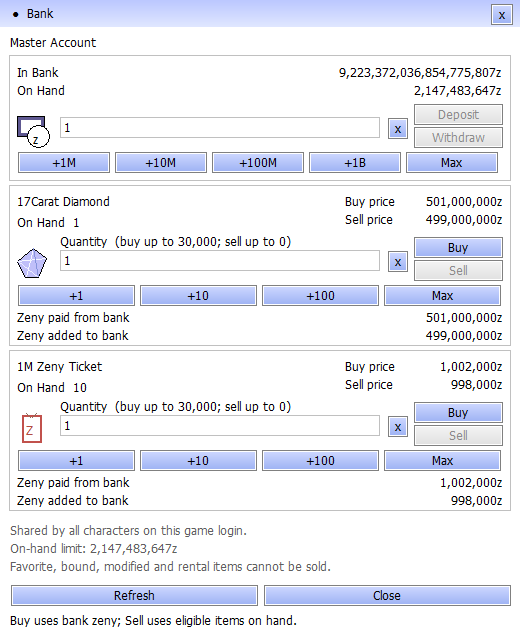
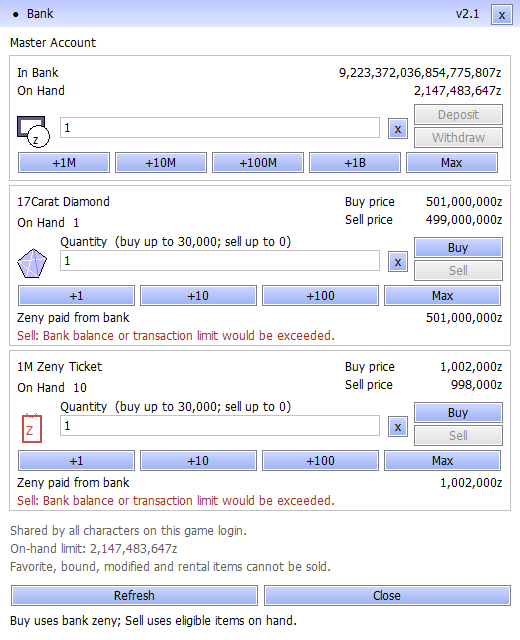
Explain disabled bank actions and verify card-only storage

diff --git a/tools/ci/card_storage_live_client.py b/tools/ci/card_storage_live_client.py
@@ -1,0 +1,85 @@
+"""Card-only inventory/cart deposit matrix against an isolated native game fixture."""
+from pathlib import Path
+import json
+import os
+import re
+import time
+from multi_storage_live_client import Client, GAME, AID, CID, sql, command, items
+
+NONCARDS = (501, 601, 909, 1201, 2301, 1750, 616, 6024, 12781, 9001, 10001, 24000)
+CARDS = (4001, 4002, 300001)
+
+
+def snapshot():
+    return [sql(query) for query in (
+        f'SELECT * FROM inventory WHERE char_id={CID} ORDER BY id',
+        f'SELECT * FROM cart_inventory WHERE char_id={CID} ORDER BY id',
+        f'SELECT * FROM pn_card_storage WHERE account_id={AID} ORDER BY id',
+        f'SELECT zeny FROM `char` WHERE char_id={CID}',
+        f'SELECT * FROM pn_storage_commits WHERE account_id={AID} ORDER BY nonce_hi,nonce_lo,request_id')]
+
+
+def main():
+    inspect = json.loads(command(['docker', 'inspect', GAME]))[0]
+    assert inspect['Config']['Labels'].get('pn.bank.fixture') == 'true'
+    assert os.readlink('/proc/self/ns/net') == os.readlink('/proc/'+str(inspect['State']['Pid'])+'/ns/net')
+    assert sql('SELECT DATABASE()') == 'bank_runtime'
+    rejected = accepted = 0
+    scenarios = []
+    for group in (0, 99):
+        assert sql('SELECT COUNT(*) FROM `char` WHERE online<>0') == '0'
+        sql(f'UPDATE login SET group_id={group} WHERE account_id={AID}')
+        for table in ('inventory', 'cart_inventory'):
+            sql(f'DELETE FROM {table} WHERE char_id={CID}')
+            rows = ','.join(f'({CID},{item},3,1,{4001 if item == 1201 else 0})' for item in NONCARDS+CARDS)
+            sql(f'INSERT INTO {table}(char_id,nameid,amount,identify,card0) VALUES '+rows)
+        sql(f'DELETE FROM pn_card_storage WHERE account_id={AID}')
+        label = 'Card Storage' if group == 0 else 'General Items'
+        if group == 99:
+            sql(f"REPLACE INTO acc_reg_str(account_id,`key`,`index`,value) VALUES ({AID},'#PNStorageName$',116,'{label}')")
+        c = Client()
+        cart_wire = c.chat('@storagefixturecart')
+        assert b'Fixture cart: 1' in cart_wire
+        c.cart.update(items(cart_wire, 1))
+        assert all(item in c.inventory and item in c.cart for item in NONCARDS+CARDS)
+        assert c.open(label) == {}
+        for route, packet, source in (('inventory', 0x364, c.inventory), ('cart', 0x129, c.cart)):
+            before = snapshot()
+            for item in NONCARDS:
+                wire = c.transfer(packet, source[item][0], 1, .25)
+                assert b'Card Storage accepts card items only.' in wire, (group, route, item, wire.hex())
+                assert snapshot() == before, (group, route, item, 'rejected deposit changed persistent data')
+                rejected += 1
+            scenarios.append(f'group {group}: {len(NONCARDS)} non-card items rejected from {route} without item, wallet or journal changes')
+            for item in CARDS:
+                quantity = 2 if route == 'inventory' else 1
+                c.transfer(packet, source[item][0], quantity)
+                expected = 2 if route == 'inventory' else 3
+                assert sql(f'SELECT SUM(amount) FROM pn_card_storage WHERE account_id={AID} AND nameid={item}') == str(expected)
+                accepted += 1
+            scenarios.append(f'group {group}: normal and six-digit-ID cards accepted from {route} and stacked correctly')
+        if group == 99:
+            before = snapshot()
+            c.chat('@storeall')
+            assert snapshot() == before, 'GM bulk storage command bypassed the open Card Storage page'
+            scenarios.append('GM privilege, carded equipment, page rename and bulk storage cannot bypass the card filter')
+        c.close_storage()
+        stored = c.open(label)
+        assert set(stored) == set(CARDS)
+        for item in CARDS:
+            c.transfer(0x365, stored[item][0], 3)
+            assert sql(f'SELECT SUM(amount) FROM inventory WHERE char_id={CID} AND nameid={item}') == '4'
+            assert sql(f'SELECT SUM(amount) FROM cart_inventory WHERE char_id={CID} AND nameid={item}') == '2'
+        assert sql(f'SELECT COUNT(*) FROM pn_card_storage WHERE account_id={AID}') == '0'
+        c.close_storage(); c.close(); time.sleep(2)
+        scenarios.append(f'group {group}: card withdrawal preserves the total inventory/cart item count')
+    for role in ('map', 'char'):
+        path = Path(os.environ['BANK_FIXTURE_ROOT'])/'runtime'/f'runtime-{role}.log'
+        log = re.sub(r'\x1b\[[0-?]*[ -/]*[@-~]', '', path.read_text(errors='replace'))
+        assert not re.search(r'\[Error\]|\[Fatal', log), role+' runtime error'
+    print(json.dumps({'passed': True, 'production_data_used': False,
+                      'noncard_deposits_rejected': rejected, 'card_deposits_accepted': accepted,
+                      'noncard_item_ids': NONCARDS, 'card_item_ids': CARDS, 'scenarios': scenarios}, indent=2))
+
+
+if __name__ == '__main__': main()

diff --git a/tools/ci/bank_ui_test.cpp b/tools/ci/bank_ui_test.cpp
@@ -45,6 +45,7 @@ int main() {
     update();for(auto control:actions) assert(!IsWindowEnabled(control));
     auto value=funded();reply(value);
     for(int i=2;i<6;++i) assert(IsWindowEnabled(actions[i]));
+    for(int row=1;row<3;++row) for(bool buy:{true,false}) assert(exchange_block_reason(row,buy).empty());
     for(int id=402;id<=405;++id) {
         reply(value);const auto before=fixture::requests.size();click(id);
         assert(fixture::requests.size()==before+1);
@@ -74,16 +75,39 @@ int main() {
     reply(empty);
     assert(!IsWindowEnabled(actions[2]) && !IsWindowEnabled(actions[4]));
     assert(IsWindowEnabled(actions[3]) && IsWindowEnabled(actions[5]));
+    assert(exchange_block_reason(1,true).find(L"501,000,000 more Zeny")!=std::wstring::npos);
+    assert(exchange_block_reason(2,true).find(L"1,002,000 more Zeny")!=std::wstring::npos);
     empty=value;
     for(int i=0;i<2;++i) empty.counts[i]=empty.max_sell[i]=0;
     reply(empty);
     assert(IsWindowEnabled(actions[2]) && IsWindowEnabled(actions[4]));
     assert(!IsWindowEnabled(actions[3]) && !IsWindowEnabled(actions[5]));
+    assert(exchange_block_reason(1,false).find(L"No eligible items")!=std::wstring::npos);
     empty=value;for(int i=0;i<2;++i) empty.max_buy[i]=0;reply(empty);
     assert(!IsWindowEnabled(actions[2]) && !IsWindowEnabled(actions[4]));
     auto full=value;full.bank=INT64_MAX;full.max_deposit=0;
     for(int i=0;i<2;++i) full.max_sell[i]=0;
     reply(full);assert(!IsWindowEnabled(actions[3]) && !IsWindowEnabled(actions[5]));
+    assert(exchange_block_reason(2,false).find(L"limit")!=std::wstring::npos);
+    // Reproduce the reported state: on-hand funds do not pay for bank purchases.
+    auto unfunded=value;unfunded.bank=1000000;unfunded.wallet=1000000000;
+    unfunded.max_deposit=unfunded.wallet;unfunded.max_withdraw=unfunded.bank;
+    for(int i=0;i<2;++i) unfunded.counts[i]=unfunded.max_buy[i]=unfunded.max_sell[i]=0;
+    reply(unfunded);
+    for(int i=2;i<6;++i) assert(!IsWindowEnabled(actions[i]));
+    assert(exchange_block_reason(1,true)==L"Buy: Deposit 500,000,000 more Zeny into the bank.");
+    assert(exchange_block_reason(2,true)==L"Buy: Deposit 2,000 more Zeny into the bank.");
+    set_amount(0,2000);click(400);
+    assert(fixture::requests.back().action==pn_bank::Deposit && fixture::requests.back().amount==2000);
+    unfunded.bank+=2000;unfunded.wallet-=2000;unfunded.max_deposit=unfunded.wallet;unfunded.max_withdraw=unfunded.bank;
+    unfunded.max_buy[1]=1;reply(unfunded);
+    assert(!IsWindowEnabled(actions[2]) && IsWindowEnabled(actions[4]));
+    assert(exchange_block_reason(2,true).empty());
+    click(404);assert(fixture::requests.back().action==pn_bank::BuyNote && fixture::requests.back().amount==1);
+    unfunded.bank-=1002000;unfunded.max_withdraw=unfunded.bank;unfunded.max_buy[1]=0;
+    unfunded.counts[1]=unfunded.max_sell[1]=1;reply(unfunded);
+    assert(IsWindowEnabled(actions[5]) && exchange_block_reason(2,false).empty());
+    click(405);assert(fixture::requests.back().action==pn_bank::SellNote && fixture::requests.back().amount==1);
     for(auto result:{pn_bank::Unavailable,pn_bank::Saving,pn_bank::Unauthorized}) {
         auto blocked=value;blocked.result=result;reply(blocked);
         const auto before=fixture::requests.size();
@@ -99,5 +123,5 @@ int main() {
     reply(value,true,fixture::generation-1);
     for(auto control:actions) assert(!IsWindowEnabled(control));
     DestroyWindow(panel);
-    std::cout<<"PASS: default item quantities; all four native Buy/Sell clicks; pending/duplicate guards; zero/invalid input; presets; funds, eligible items, inventory and bank capacity; unavailable, disconnected and stale sessions\n";
+    std::cout<<"PASS: default item quantities; all four native Buy/Sell clicks; pending/duplicate guards; zero/invalid input; presets; visible rejection reasons; deposit then buy/sell control recovery; funds, eligible items, inventory and bank capacity; unavailable, disconnected and stale sessions\n";
 }

diff --git a/client-patch/account_bank/bank_ui.cpp b/client-patch/account_bank/bank_ui.cpp
@@ -45,6 +45,26 @@ int64_t amount(int row) {
     return value;
 }
 void set_amount(int row,int64_t value) { auto text=std::to_wstring(value); SetWindowTextW(inputs[row],text.c_str()); }
+std::wstring exchange_block_reason(int row,bool buy) {
+    const std::wstring label=buy?L"Buy: ":L"Sell: ";
+    if(!verified) return label+L"Log in, then Refresh to connect to the bank.";
+    if(busy || state.result==pn_bank::Saving) return label+L"Waiting for the bank. Please wait...";
+    if(state.result==pn_bank::Unavailable) return label+L"Banking is unavailable here.";
+    const uint32_t action=(row==1?pn_bank::BuyDiamond:pn_bank::BuyNote)+(buy?0:1);
+    const auto count=amount(row);
+    const auto result=pn_bank::plan(state,action,count).result;
+    switch(result) {
+    case pn_bank::Ok: return L"";
+    case pn_bank::Funds:
+        return label+L"Deposit "+commas(count*state.buy[row-1]-state.bank)+L" more Zeny into the bank.";
+    case pn_bank::Items:
+        return label+(state.counts[row-1]?L"Only "+commas(state.counts[row-1])+L" eligible items on hand.":
+            L"No eligible items in your character inventory.");
+    case pn_bank::Capacity: return label+L"Free inventory space/weight, or lower the quantity.";
+    case pn_bank::Limit: return label+L"Bank balance or transaction limit would be exceeded.";
+    default: return label+L"Enter a whole quantity of 1 or more.";
+    }
+}
 void text(HDC dc,int x,int y,int width,const std::wstring& value,bool right=false) {
     RECT box{x,y,x+width,y+20}; DrawTextW(dc,value.c_str(),-1,&box,DT_SINGLELINE|DT_VCENTER|(right?DT_RIGHT:DT_LEFT));
 }
@@ -87,6 +107,7 @@ void paint(HDC dc) {
     SetBkMode(dc,TRANSPARENT); SetTextColor(dc,RGB(0,0,0));
     gradient(dc,RECT{0,0,520,27},RGB(188,200,255),RGB(225,232,255));
     text(dc,12,3,420,L"\x25cf  Bank");
+    text(dc,390,3,90,L"v2.1",true);
     text(dc,10,32,495,L"Master Account");
     for(auto range:{std::pair<int,int>{55,181},{185,346},{350,511}}) {
         RECT box{9,range.first,511,range.second}; FrameRect(dc,&box,reinterpret_cast<HBRUSH>(GetStockObject(LTGRAY_BRUSH)));
@@ -113,10 +134,17 @@ void paint(HDC dc) {
         int64_t count=amount(row);
         bool safe=count>=0 && count<=INT64_MAX/state.buy[row-1];
         int py=row==1?307:472;
-        text(dc,17,py,290,L"Zeny paid from bank");
-        text(dc,307,py,195,safe?commas(count*state.buy[row-1],true):L"Invalid amount",true);
-        text(dc,17,py+18,290,L"Zeny added to bank");
-        text(dc,307,py+18,195,safe?commas(count*state.sell[row-1],true):L"Invalid amount",true);
+        for(int action=0;action<2;++action) {
+            const auto reason=exchange_block_reason(row,action==0);
+            if(!reason.empty()) {
+                SetTextColor(dc,RGB(160,48,34)); text(dc,17,py+action*18,485,reason);
+                SetTextColor(dc,RGB(0,0,0));
+            } else {
+                text(dc,17,py+action*18,290,action==0?L"Zeny paid from bank":L"Zeny added to bank");
+                const auto price=action==0?state.buy[row-1]:state.sell[row-1];
+                text(dc,307,py+action*18,195,safe?commas(count*price,true):L"Invalid amount",true);
+            }
+        }
     }
     SetTextColor(dc,RGB(95,95,95));
     text(dc,10,520,500,L"Shared by all characters on this game login.");
@@ -329,6 +357,10 @@ int bank_window_main(HINSTANCE module,bool render) {
         for(int i=0;i<2;++i) { state.max_buy[i]=30000; state.max_sell[i]=0; }
         set_amount(0,1);assert(!IsWindowEnabled(actions[0]) && !IsWindowEnabled(actions[1]));
         save_preview("bank-preview-max.bmp");
+        state.bank=1000000;state.wallet=1000000000;state.max_deposit=state.wallet;
+        state.max_withdraw=state.bank;
+        for(int i=0;i<2;++i) state.counts[i]=state.max_buy[i]=state.max_sell[i]=0;
+        update(); save_preview("bank-preview-needs-deposit.bmp");
         DestroyWindow(panel); return 0;
     }
     update();

diff --git a/tools/ci/multi_storage_live_test.py b/tools/ci/multi_storage_live_test.py
@@ -88,7 +88,8 @@ wait
         (OUT/f'{role}-startup.log').write_text(text)
     print('Fresh-schema startup passed; running real authenticated multi-storage sessions.',flush=True)
     pid=run(['docker','inspect','--format','{{.State.Pid}}',GAME],capture_output=True,text=True).stdout.strip()
-    completed=subprocess.run(['nsenter','-t',pid,'-n','python3',str(CAND/'tools/ci/multi_storage_live_client.py')],
+    client = Path(os.environ.get('PN_STORAGE_LIVE_CLIENT', str(CAND/'tools/ci/multi_storage_live_client.py'))).resolve()
+    completed=subprocess.run(['nsenter','-t',pid,'-n','python3',str(client)],
                              text=True,capture_output=True,timeout=600,env=dict(os.environ,BANK_FIXTURE_ROOT=str(ROOT)))
     (OUT/'client.log').write_text(completed.stdout+completed.stderr)
     completed.check_returncode()

diff --git a/tools/ci/multi_storage_live_client.py b/tools/ci/multi_storage_live_client.py
@@ -49,6 +49,7 @@ class Client(bank.Client):
         try: super().__init__(slot, attach=False)
         finally: bank.drain = drain
         self.inventory = items(b''.join(captured), 0)
+        self.cart = items(b''.join(captured), 1)
         self.slot = slot
 
     def chat(self, text):

diff --git a/doc/bank_feedback_20260913.md b/doc/bank_feedback_20260913.md
@@ -1,0 +1,28 @@
+# Bank v2.1: clear Buy/Sell feedback
+
+Disabled Buy/Sell buttons now explain the requirement directly inside their item row. The panel shows the exact additional Zeny needed in the bank, missing eligible items, inventory space/weight limits, invalid quantities, balance limits, and connection or save status. Available exchanges continue to show their total cost or proceeds.
+
+![Bank v2.1 explaining insufficient bank funds and missing sale items](images/bank-v2.1-feedback.png)
+
+*Rendered by the production Windows panel with sample balances and inventory; this is not a player screenshot.*
+
+## Buying and selling
+
+Purchases use **In Bank**, while **On Hand** is the current character's separate wallet. Enter an amount in the top row and click **Deposit** to fund purchases. Item quantities start at one.
+
+| Item | Buy from bank | Sell to bank |
+| --- | ---: | ---: |
+| 17Carat Diamond | 501,000,000 Zeny | 499,000,000 Zeny |
+| 1M Zeny Ticket | 1,002,000 Zeny | 998,000 Zeny |
+
+For example, a bank holding 1,000,000 Zeny needs **2,000 more Zeny deposited** to buy one ticket, or **500,000,000 more** to buy one diamond. Sell requires the corresponding eligible item in the current character's inventory. Favorite, bound, rental, equipped and modified items remain excluded.
+
+## Install
+
+Close the game, install the `PN-Bank-v2.1-20260913.zip` patch from the [client release](https://github.com/patnawa/rathena_pn/releases/tag/client-2026-09-13-bank64) into the folder containing `Ragexe.exe`, and start the game again. The bank title bar displays **v2.1**. This patch requires the existing PN Master Account client package and replaces `BankUI.dll`; its README includes the file checksum and backup instructions.
+
+## Validation
+
+The production Windows panel passed its native edit/button tests, including all four Buy/Sell actions, visible disabled-action reasons, a deposit followed by ticket purchase and sale, missing funds/items, invalid quantities, inventory and bank capacity, duplicate/pending requests, disconnected and stale sessions. The shipping DLL loader, original font extension and socket-hook transport tests also passed. Funded, unfunded and maximum-balance previews were rendered and visually checked.
+
+The updated client was installed with backups and launcher validation. These are automated native-control and transport checks; player balances were not changed to test the interface. Prices, account sharing, server transaction rules, and the character wallet limit are unchanged. See the [verification record](evidence/bank_feedback_20260913.json).

diff --git a/doc/multi_storage_20260913.md b/doc/multi_storage_20260913.md
@@ -56,6 +56,8 @@ The initial storage release passed all **38 release checks**, including sanitize
 
 The unlock dialog and visible Mystic Box update was deployed at **12:45:14 UTC on 13 September 2026**, after the 17 native scenarios passed. A fresh full database backup was retained; ordered hashes of **31 player, financial and storage tables** were unchanged across deployment. All three game services completed startup, and the map/character binaries still match the validated storage build. See the [dialog verification record](evidence/storage_dialog_20260913.json).
 
+A focused Card Storage audit rejected **48 non-card deposits** and accepted **12 card deposits** through real inventory/cart packets for both normal players and GMs. Coverage includes consumables, materials, ammunition, card albums, pet items, shadow gear, diamonds, Zeny tickets and equipment containing a card. Renaming the page and the GM bulk-storage command cannot bypass the item-type check. Normal and six-digit-ID cards stack and withdraw correctly. The isolated fixture used matching production binaries and database files; no player data was modified. See the [card-only verification](evidence/card_storage_only_20260913.json).
+
 To reproduce against a compiled Linux checkout, use a local `rathena:local` builder/runtime image with MariaDB client libraries and the `mariadb:noble` database image. The live tests also need host Python, Docker and `nsenter` privileges. Tests create fresh databases on internal Docker networks, refuse existing fixture names, and remove only their own fixtures.
 
 ```sh
@@ -63,6 +65,8 @@ export PN_STORAGE_CANDIDATE="$PWD"
 export PN_STORAGE_TEST_ROOT=/tmp/pn-multi-storage-proof
 python3 tools/ci/multi_storage_sql_test.py
 python3 tools/ci/multi_storage_live_test.py
+# Focused card-only inventory/cart matrix using the same isolated fixture:
+PN_STORAGE_LIVE_CLIENT="$PWD/tools/ci/card_storage_live_client.py" python3 tools/ci/multi_storage_live_test.py
 ```
 
 `PN_STORAGE_IMAGE` can select an equivalent local runtime image. Evidence stays under the test root. Native assertions are in [multi_storage_sql_runtime.cpp](../tools/ci/multi_storage_sql_runtime.cpp); authenticated client scenarios are in [multi_storage_live_client.py](../tools/ci/multi_storage_live_client.py).

diff --git a/client-patch/account_bank/README.md b/client-patch/account_bank/README.md
@@ -11,6 +11,8 @@ The bank holds up to 9,223,372,036,854,775,807 zeny (signed 64-bit capacity). Th
 
 Item quantities start at **1**. Each row shows the maximum quantity currently available to buy or sell. Deposit on-hand zeny first to fund purchases. Buy requires enough bank zeny and inventory space/weight; Sell requires eligible items and room in the bank. A zero, empty or invalid quantity disables both actions. Character changes reset item quantities to one and require a fresh authenticated balance before enabling transactions.
 
+Panel **v2.1** shows a reason directly beneath each disabled item action: the exact bank-Zeny shortfall, missing eligible items, inventory capacity, invalid quantity, bank limits or connection/save status. For example, a bank balance of 1,000,000 needs another **2,000 Zeny deposited** before buying one 1M Zeny Ticket. The character's on-hand balance does not fund the purchase until deposited. See the [bank feedback guide](../../doc/bank_feedback_20260913.md).
+
 The server validates the active character, both existing login tokens and source IP. Tokens stay in client memory. A separate persistent connection uses the existing map port; no password, web account or extra public service is added. Nonces and request IDs prevent repeated transactions. The DLL observes successful game sends without changing their bytes. The original font extension is retained as `FontScaleOriginal.dll`; the client executable, GRFs and font settings are preserved.
 
 The character server commits inventory, wallet, account registry and the `pn_bank_commits` journal in one InnoDB transaction. Only a committed transaction receives success. Stock native deposits and withdrawals use this path too. Spending, split saves, map changes and logout are deferred while saving; retries carry current state, and repeated SQL commits do not restore old snapshots. If SQL is unavailable the character stays locked until saving recovers. An unacknowledged operation after a server crash must be checked with Refresh/relogin before trying again.

diff --git a/README.md b/README.md
@@ -43,6 +43,8 @@ One bank balance is shared by **all characters on the same game login**. Open it
 
 Deposit wallet zeny to fund purchases. Both exchange rows start at **one item**, show the current maximum buy/sell quantities, and display the bank cost or proceeds before you click.
 
+**Bank v2.1** shows the reason inside each disabled Buy/Sell row, including the exact extra bank funds required. A bank holding 1,000,000 Zeny needs **2,000 more deposited** to buy one ticket. Get the small v2.1 patch from the [client release](https://github.com/patnawa/rathena_pn/releases/tag/client-2026-09-13-bank64), or see the [feedback guide](doc/bank_feedback_20260913.md).
+
 | Item | Buy one | Sell one |
 | --- | ---: | ---: |
 | 17Carat Diamond — item `6024` | 501,000,000z | 499,000,000z |
@@ -78,6 +80,8 @@ Open **`@storage`**, **`@mstorage`**, **Mystic Box in Prontera (158, 185)**, or 
 Each additional regular or Master page costs **50,000,000 character-held zeny** and unlocks **600 slots** permanently for that game login. Choose **Expand Storages**, the first menu option, or select any **red locked page** to see its purchase confirmation. Cancelling costs nothing. Existing items remain in Storage I; names and menu order persist across character changes.
 
 Personal item transfers save their source and destination together. Expansion payment and ownership also commit together, with replay protection and retries after failed saves. The menu uses the existing game client. See the [storage guide and validation](doc/multi_storage_20260913.md).
+
+Card Storage enforces the server's **Card** item type for inventory and cart deposits, including GM accounts. The focused audit rejected **48 non-card deposits** and accepted **12 card deposits**, covering equipment with inserted cards, consumables, materials, card albums and six-digit card IDs. [Card-only evidence](doc/evidence/card_storage_only_20260913.json).
 
 ## World and progression
 
